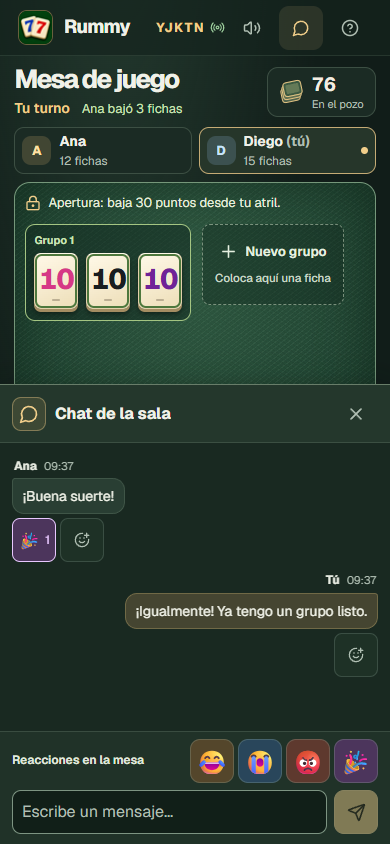
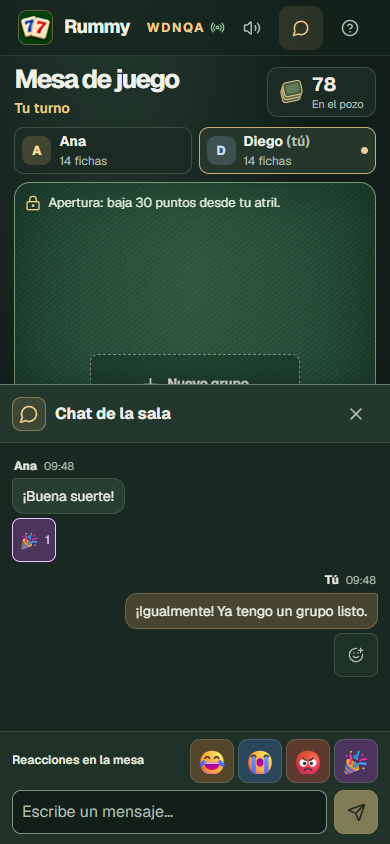
Agrega reacciones con pulsación larga en el chat

diff --git a/client/src/ChatPanel.tsx b/client/src/ChatPanel.tsx
@@ -1,4 +1,4 @@
-import { useEffect, useLayoutEffect, useRef, useState, type FormEvent, type RefObject } from 'react'
+import { useCallback, useEffect, useLayoutEffect, useRef, useState, type FormEvent, type PointerEvent, type RefObject } from 'react'
 import { MessageCircle, Send, SmilePlus, X } from 'lucide-react'
 import { CHAT_TEXT_LIMIT, QUICK_REACTIONS, REACTIONS, type ChatMessage, type Problem, type ReactionKind } from '../../server/protocol'
 import { ReactionChoices, ReactionEmoji, reactionLabel } from './Reactions'
@@ -6,6 +6,10 @@ import { ErrorNotice } from './RoomScreens'
 import './ChatPanel.css'
 
 const timeFormat = new Intl.DateTimeFormat('es', { hour: '2-digit', minute: '2-digit' })
+const REACTION_HOLD_MS = 500
+const REACTION_MOVE_TOLERANCE = 10
+
+type ReactionPress = { pointerId: number; startX: number; startY: number; timer: number }
 
 type ChatPanelProps = {
   messages: ChatMessage[]
@@ -28,14 +32,36 @@ export function ChatPanel({ messages, selfId, open, ready, trigger, onClose, onS
   const heading = useRef<HTMLHeadingElement>(null)
   const composer = useRef<HTMLInputElement>(null)
   const feed = useRef<HTMLDivElement>(null)
+  const press = useRef<ReactionPress | null>(null)
+  const pickerTrigger = useRef<HTMLButtonElement | null>(null)
+  const pickerOptions = useRef<HTMLDivElement>(null)
   const followLatest = useRef(true)
   const latestId = messages.at(-1)?.id
   const latestSender = messages.at(-1)?.senderId
+
+  const cancelPress = useCallback(() => {
+    if (!press.current) return
+    window.clearTimeout(press.current.timer)
+    press.current = null
+  }, [])
+
+  useEffect(() => {
+    if (!open || !ready) return
+    window.addEventListener('blur', cancelPress)
+    return () => {
+      window.removeEventListener('blur', cancelPress)
+      cancelPress()
+    }
+  }, [cancelPress, open, ready])
 
   useLayoutEffect(() => {
     const list = feed.current
     if (open && list && (followLatest.current || latestSender === selfId)) list.scrollTop = list.scrollHeight
   }, [open, latestId, latestSender, selfId])
+
+  useLayoutEffect(() => {
+    if (open && picker) pickerOptions.current?.scrollIntoView({ block: 'nearest' })
+  }, [open, picker])
 
   useLayoutEffect(() => {
     if (!open) return
@@ -71,6 +97,40 @@ export function ChatPanel({ messages, selfId, open, ready, trigger, onClose, onS
     }
   }, [onClose, open, trigger])
 
+  function showPicker(messageId: string, control: HTMLButtonElement) {
+    pickerTrigger.current = control
+    setPicker(messageId)
+  }
+
+  function closePicker() {
+    if (pickerOptions.current?.contains(document.activeElement)) pickerTrigger.current?.focus({ preventScroll: true })
+    setPicker(null)
+  }
+
+  function startPress(event: PointerEvent<HTMLButtonElement>, messageId: string) {
+    if (!event.isPrimary || event.button !== 0) return
+    cancelPress()
+    const { pointerId, clientX, clientY, currentTarget } = event
+    currentTarget.setPointerCapture(pointerId)
+    press.current = {
+      pointerId, startX: clientX, startY: clientY,
+      timer: window.setTimeout(() => {
+        press.current = null
+        if (currentTarget.isConnected) showPicker(messageId, currentTarget)
+      }, REACTION_HOLD_MS),
+    }
+  }
+
+  function movePress(event: PointerEvent<HTMLButtonElement>) {
+    const active = press.current
+    if (active?.pointerId !== event.pointerId) return
+    if (Math.hypot(event.clientX - active.startX, event.clientY - active.startY) > REACTION_MOVE_TOLERANCE) cancelPress()
+  }
+
+  function endPress(event: PointerEvent<HTMLButtonElement>) {
+    if (press.current?.pointerId === event.pointerId) cancelPress()
+  }
+
   async function submit(event: FormEvent<HTMLFormElement>) {
     event.preventDefault()
     if (!ready || sending || !text.trim()) return
@@ -93,7 +153,7 @@ export function ChatPanel({ messages, selfId, open, ready, trigger, onClose, onS
     try {
       const result = await onReact(kind, messageId)
       if (result) setProblem(result)
-      else if (messageId) setPicker(null)
+      else if (messageId && pickerOptions.current?.dataset.messageId === messageId) closePicker()
     } finally {
       setReacting(false)
     }
@@ -104,7 +164,7 @@ export function ChatPanel({ messages, selfId, open, ready, trigger, onClose, onS
       onKeyDown={event => {
         if (event.key !== 'Escape') return
         event.stopPropagation()
-        if (picker) setPicker(null)
+        if (picker) closePicker()
         else onClose()
       }}>
       <div className="chat-heading">
@@ -114,19 +174,35 @@ export function ChatPanel({ messages, selfId, open, ready, trigger, onClose, onS
       </div>
       <div className="chat-feed" ref={feed} role="log" aria-label="Mensajes del chat" aria-relevant="additions" tabIndex={0}
         onScroll={event => {
+          cancelPress()
           const list = event.currentTarget
           followLatest.current = list.scrollHeight - list.scrollTop - list.clientHeight < 30
         }}>
         {!messages.length && <p className="chat-empty muted">Todavía no hay mensajes.</p>}
         {messages.map(message => {
           const own = message.senderId === selfId
+          const latest = message.id === latestId
+          const pickerOpen = message.id === picker
           return (
             <article className={`chat-message ${own ? 'chat-own-message' : ''}`} key={message.id}>
               <div className="chat-message-meta">
                 <strong>{own ? 'Tú' : message.senderName}</strong>
                 <time dateTime={new Date(message.sentAt).toISOString()}>{timeFormat.format(message.sentAt)}</time>
               </div>
-              <p className="chat-bubble">{message.text}</p>
+              {latest ? <p className="chat-bubble">{message.text}</p> : (
+                <button className="chat-bubble chat-hold-reaction" type="button" aria-expanded={pickerOpen}
+                  aria-label={`Reaccionar a: ${message.text}`} title="Mantén pulsado para reaccionar" disabled={!ready}
+                  onPointerDown={event => startPress(event, message.id)} onPointerMove={movePress}
+                  onPointerUp={endPress} onPointerCancel={endPress} onLostPointerCapture={endPress}
+                  onContextMenu={event => event.preventDefault()}
+                  onClick={event => {
+                    if (event.detail !== 0) return
+                    if (pickerOpen) closePicker()
+                    else showPicker(message.id, event.currentTarget)
+                  }}>
+                  {message.text}
+                </button>
+              )}
               <div className="chat-message-reactions">
                 {REACTIONS.map(kind => {
                   const users = message.reactions[kind]
@@ -138,12 +214,17 @@ export function ChatPanel({ messages, selfId, open, ready, trigger, onClose, onS
                     </button>
                   ) : null
                 })}
-                <button className="chat-add-reaction" type="button" aria-label={`Reaccionar al mensaje de ${own ? 'ti' : message.senderName}`}
-                  aria-expanded={picker === message.id} disabled={!ready} onClick={() => setPicker(picker === message.id ? null : message.id)}>
-                  <SmilePlus size={16} />
-                </button>
+                {latest && (
+                  <button className="chat-add-reaction" type="button" aria-label={`Reaccionar al mensaje de ${own ? 'ti' : message.senderName}`}
+                    aria-expanded={pickerOpen} disabled={!ready}
+                    onClick={event => pickerOpen ? closePicker() : showPicker(message.id, event.currentTarget)}>
+                    <SmilePlus size={16} />
+                  </button>
+                )}
               </div>
-              {picker === message.id && <ReactionChoices disabled={!ready || reacting} onChoose={kind => void choose(kind, message.id)} />}
+              {pickerOpen && <div ref={pickerOptions} data-message-id={message.id}>
+                <ReactionChoices disabled={!ready || reacting} onChoose={kind => void choose(kind, message.id)} />
+              </div>}
             </article>
           )
         })}

diff --git a/client/src/ChatPanel.css b/client/src/ChatPanel.css
@@ -104,7 +104,15 @@
   border-radius: 12px 3px 12px 12px;
   background: #454531;
 }
+.chat-hold-reaction {
+  text-align: start;
+  touch-action: pan-y pinch-zoom;
+  user-select: none;
+  -webkit-touch-callout: none;
+}
+.chat-hold-reaction:active:not(:disabled), .chat-hold-reaction[aria-expanded="true"] { border-color: var(--gold); }
 .chat-message-reactions { display: flex; flex-wrap: wrap; gap: 4px; }
+.chat-message-reactions:empty { display: none; }
 .chat-add-reaction, .chat-reaction-count {
   min-width: 34px;
   min-height: 32px;
